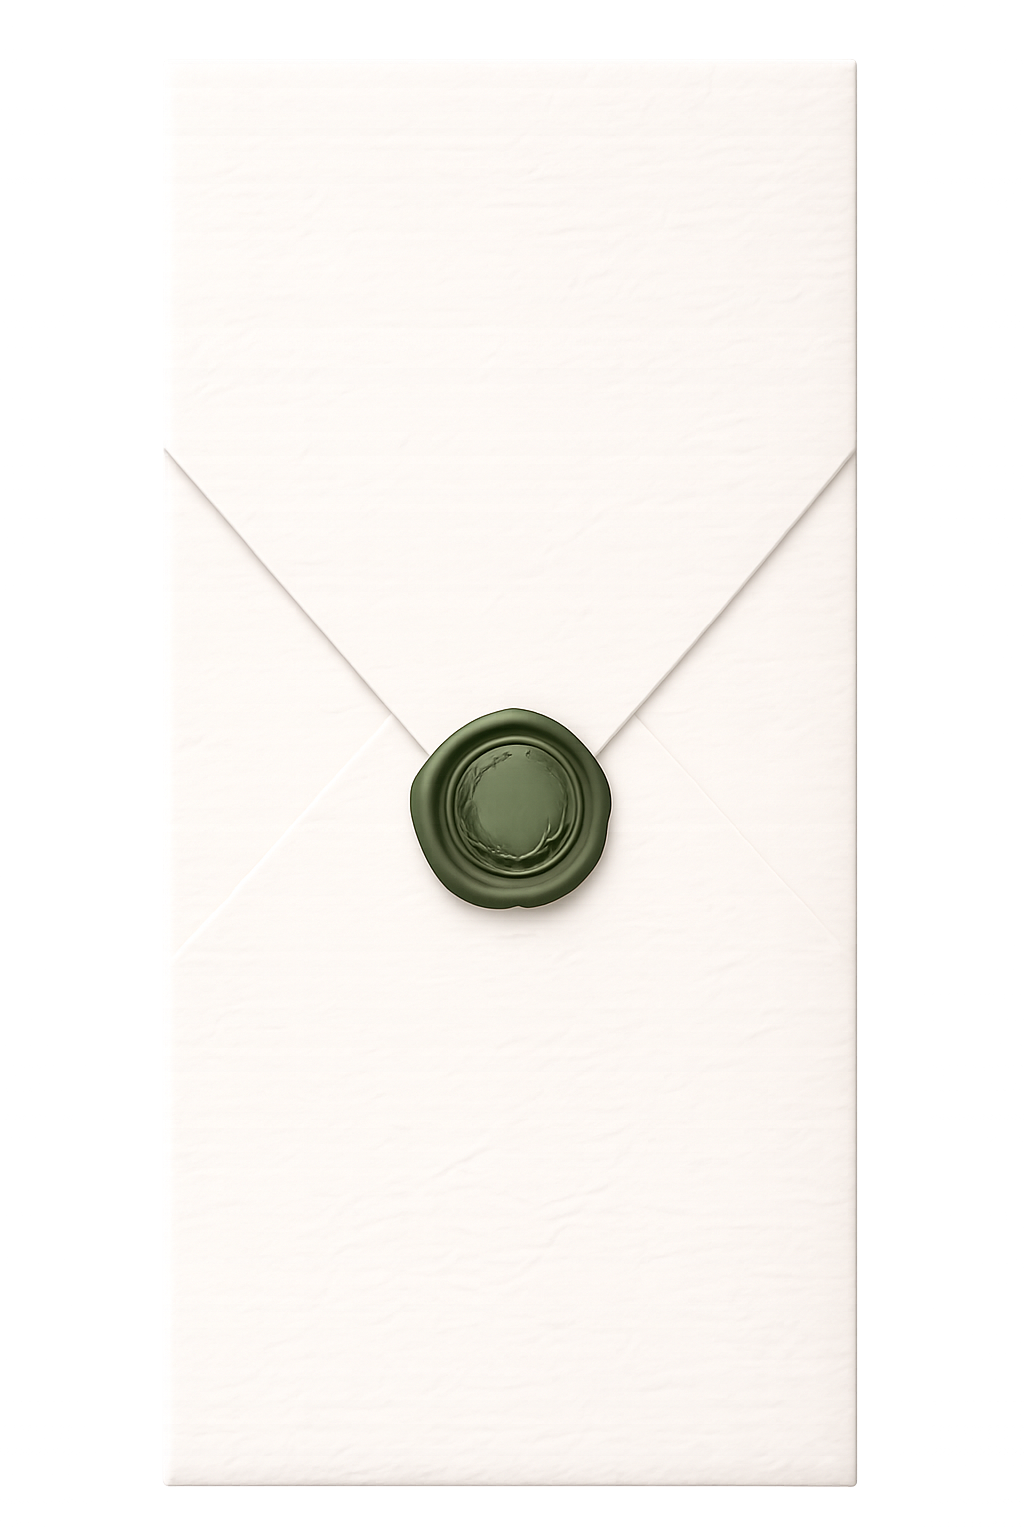
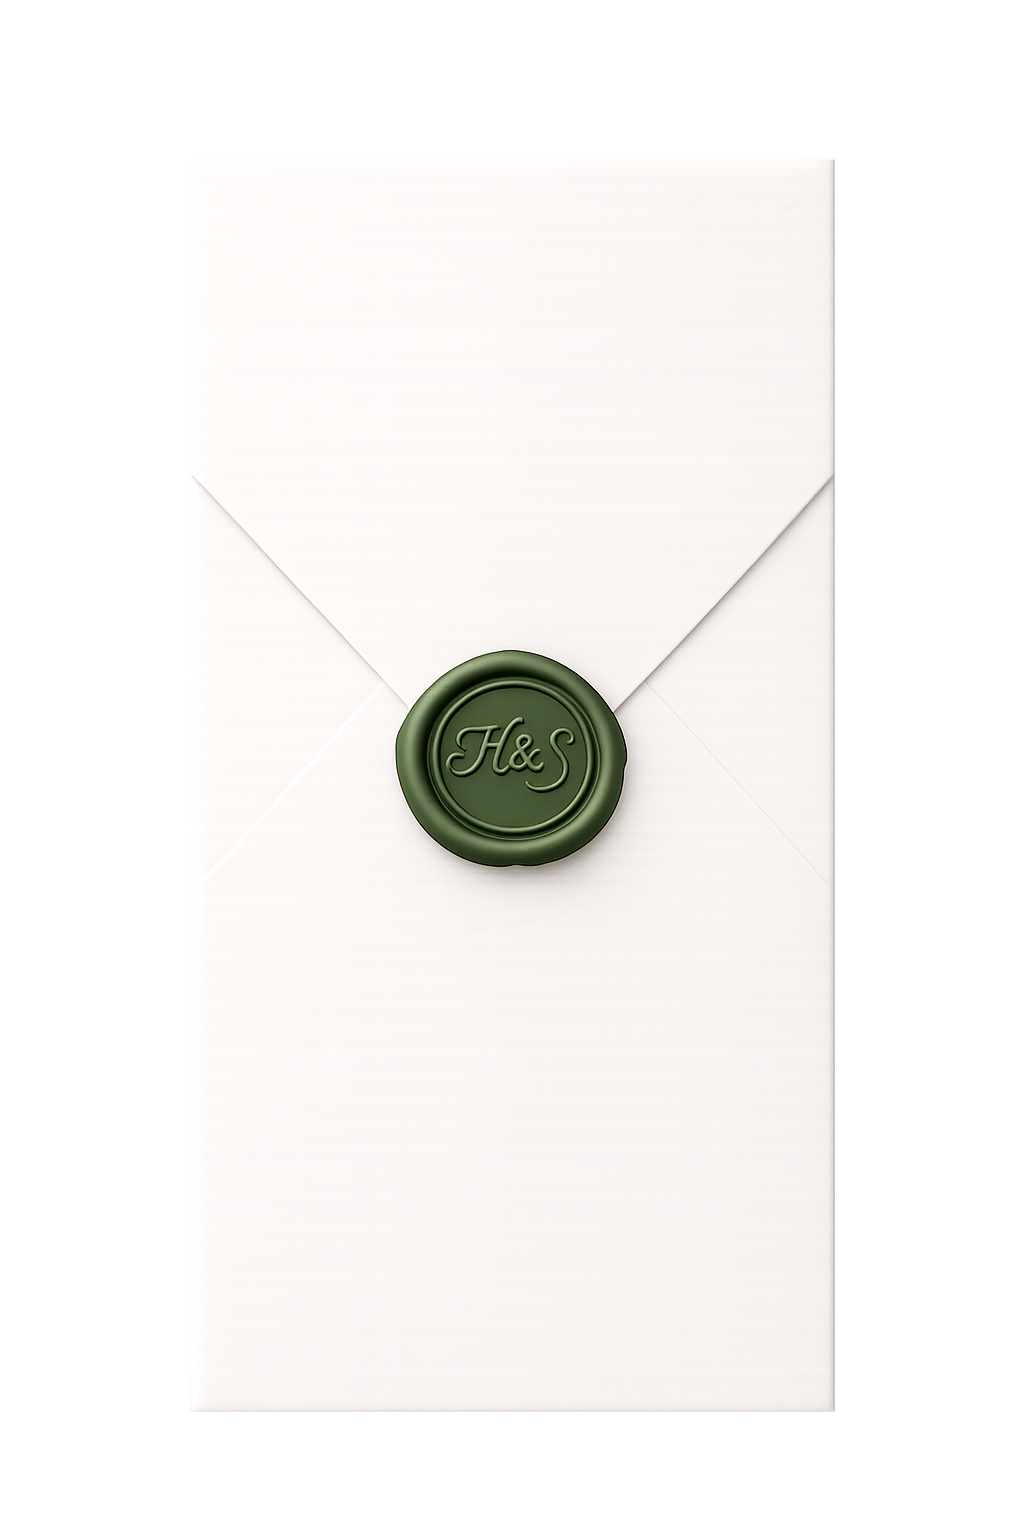
Replace startup envelope with ENV_111.png, white background
Full-screen cover image with white fallback background so no
other colors show at edges on any screen size.

diff --git a/src/app/globals.css b/src/app/globals.css
@@ -201,7 +201,7 @@ body {
   height: 100vh;
   height: 100dvh;
   z-index: 50;
-  background: #f0ede8;
+  background: #ffffff;
   display: flex;
   flex-direction: column;
   align-items: center;
